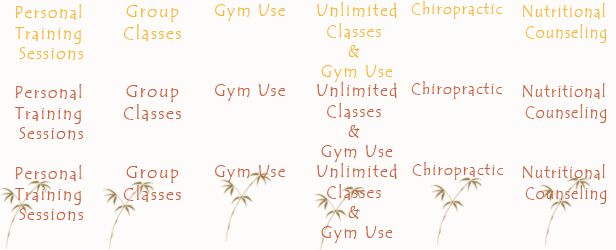
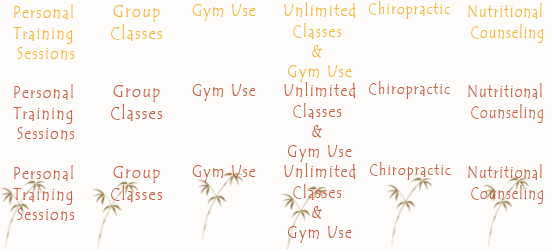
=rates fully done

diff --git a/public/stylesheets/pages.css b/public/stylesheets/pages.css
@@ -256,26 +256,27 @@ h2 {
 #main_navi li.active  a#cardio {background-position:-184px -247px; height: 106px;}
 #main_navi li.active  a#flex {background-position:-353px -246px; width: 230px; height: 106px;}
 
+#main_navi li a#home_rates {background: url(/images/icons/home_small.png) no-repeat; width: 48px;}
 #main_navi li a#personal {background-position: 0px 0px;}
-#main_navi li a#group 	 {background-position: -102px 0px;}
-#main_navi li a#gym			 {background-position: -204px 0px;}
-#main_navi li a#unlimited{background-position: -306px 0px;}
-#main_navi li a#chiro		 {background-position: -408px 0px;}
-#main_navi li a#nutrit	 {background-position: -510px 0px;}
+#main_navi li a#group 	 {background-position: -94px 0px;}
+#main_navi li a#gym			 {background-position: -188px 0px;}
+#main_navi li a#unlimited{background-position: -277px 0px;}
+#main_navi li a#chiro		 {background-position: -364px 0px;}
+#main_navi li a#nutrit	 {background-position: -452px 0px;}
 
 #main_navi li a#personal:hover  {background-position: 0px -80px;}
-#main_navi li a#group:hover  	 {background-position: -102px -80px;}
-#main_navi li a#gym:hover 			 {background-position: -204px -80px;}
-#main_navi li a#unlimited:hover {background-position: -306px -80px;}
-#main_navi li a#chiro:hover 	 {background-position: -408px -80px;}
-#main_navi li a#nutrit:hover 	 {background-position: -510px -80px;}
+#main_navi li a#group:hover  	 {background-position: -94px -80px;}
+#main_navi li a#gym:hover 			 {background-position: -188px -80px;}
+#main_navi li a#unlimited:hover {background-position: -277px -80px;}
+#main_navi li a#chiro:hover 	 {background-position: -364px -80px;}
+#main_navi li a#nutrit:hover 	 {background-position: -452px -80px;}
 
 #main_navi li.active a#personal {background-position: 0px -164px;}
-#main_navi li.active a#group 	 {background-position: -102px -164px;}
-#main_navi li.active a#gym			 {background-position: -204px -164px;}
-#main_navi li.active a#unlimited{background-position: -306px -164px;}
-#main_navi li.active a#chiro		 {background-position: -408px -164px;}
-#main_navi li.active a#nutrit	 {background-position: -510px -164px;}
+#main_navi li.active a#group 	 {background-position: -94px -164px;}
+#main_navi li.active a#gym			 {background-position: -188px -164px;}
+#main_navi li.active a#unlimited{background-position: -277px -164px;}
+#main_navi li.active a#chiro		 {background-position: -364px -164px;}
+#main_navi li.active a#nutrit	 {background-position: -452px -164px;}
 
 
 #main_categories { 
